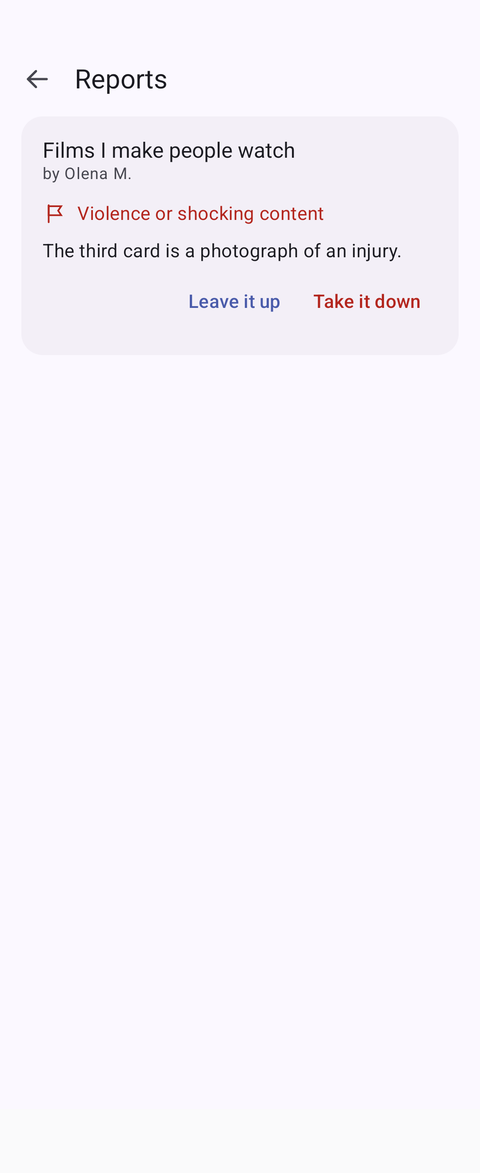
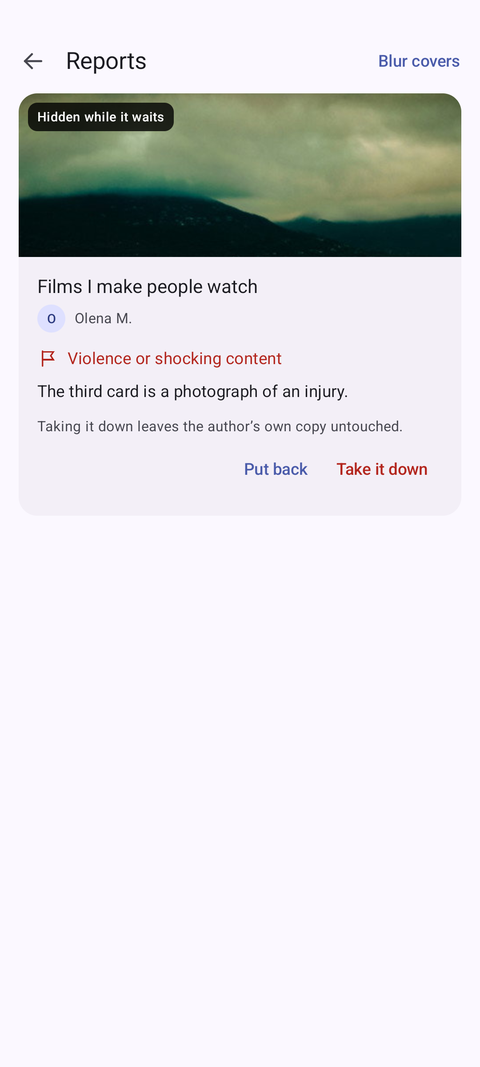
Redraw the README, and stop it claiming work that shipped
The pictures were drawn before the sort, the star, the report queue's cover
and the account that keeps your boards. Redrawn from the same test, plus the
fixture changes those needed: a board that is starred rather than merely
listed under Favourites, and a report that carries the cover the feed showed.

The text was worse than out of date. "What's next" still offered boards that
follow you as a plan, five days after they shipped -- the first thing a
reader would check and the first thing they would find wrong. Written up
now, along with sorting, following, and the sheet that takes a list down and
answers for its author in one decision.

Two things said plainly rather than left to be discovered: ranking somebody
else's board keeps whichever arrangement is on screen, and the AI studio is
built but switched off for the first release.

The take-down sheet is deliberately not pictured. It is a ModalBottomSheet,
so its window is the whole screen and `isDialog()` captures a grey field with
the sheet clipped by the edge. `docs/screenshots.md` says so, and no longer
claims the feed is drawn behind the dialogs -- it has not been for a while.

diff --git a/feature/tier/presentation/src/androidTest/kotlin/com/artiuillab/tieryourlife/feature/tier/presentation/common/ReadmeScreenshotTest.kt b/feature/tier/presentation/src/androidTest/kotlin/com/artiuillab/tieryourlife/feature/tier/presentation/common/ReadmeScreenshotTest.kt
@@ -109,7 +109,11 @@ class ReadmeScreenshotTest {
     private fun Screen(name: String): Unit = when (name) {
         "home" -> TierListsScreenContent(
             state = TierListsUiState.Success(
-                lists = listOf(filmBoard(), ramenBoard(), albumBoard()),
+                lists = listOf(ramenBoard(), albumBoard()),
+                // Starred, and it has to say so: the star on the card is drawn
+                // from the board, not from which list it arrived in.
+                favourites = listOf(filmBoard().copy(favouritedAt = 1)),
+                grouped = true,
                 totalListCount = 3,
                 rankedCount = 2,
             ),
@@ -240,11 +244,13 @@ class ReadmeScreenshotTest {
                         listId = "1",
                         listTitle = "Films I make people watch",
                         authorName = "Olena M.",
+                        authorUid = "u1",
+                        coverImageUrl = Poster.PORTRAIT,
                         reasons = listOf(ReportReason.Violence),
                         notes = listOf("The third card is a photograph of an injury."),
                         reportCount = 1,
                         newestAtMillis = 0,
-                        hidden = false,
+                        hidden = true,
                         reviewed = false,
                     ),
                 ),
@@ -358,6 +364,11 @@ class ReadmeScreenshotTest {
 
         val DIALOGS = setOf("list-actions", "report")
 
+        // The take-down sheet is deliberately absent. It is a ModalBottomSheet,
+        // so its window is the whole screen -- a scrim with the sheet at the
+        // bottom -- and captured through isDialog() it comes out as a grey
+        // field with the sheet clipped by the window edge. A picture that
+        // needs an apology is worse than a paragraph.
         val SCREENS = listOf(
             "home", "home-empty", "board", "settings", "community", "list-actions",
             "report", "community-list", "author", "my-published", "hidden", "moderation",

diff --git a/README.md b/README.md
@@ -60,7 +60,9 @@ and both can be undone from Settings.
 | <img src="docs/screenshots/hidden-light.png" width="240"> | <img src="docs/screenshots/moderation-light.png" width="240"> | <img src="docs/screenshots/my-published-light.png" width="240"> |
 
 Opening someone else's board gives you their cards and their tiers and an empty board, and the
-author is a person you can open rather than a line of text.
+author is a person you can open rather than a line of text. Their arrangement and yours are two
+tabs on the same board — saving keeps whichever one you are looking at, because keeping a list
+the way its author ranked it is a reason to save it rather than a mistake to correct.
 
 | Someone else's board | Their profile |
 |:---:|:---:|
@@ -108,11 +110,25 @@ folding one, which is two different answers in one body — and a tablet turns f
   removed and a one-tap restore. Deleting a tier does not take its trashed items with it.
 - **Publish a board.** Make one public and it joins the community feed under a category, with a
   cover you choose. Deleting your list takes it down; a copy someone already saved stays theirs.
-- **The community.** Browse by category, search across it, open anyone's profile and see
-  everything they have published, and save a copy of any board into your own library.
+- **Sort, filter, and keep one at the top.** Newest or oldest, by category, public or private,
+  and a star that pins a board above the rest. Starring is a time rather than a flag, so several
+  starred boards have an order among themselves without a second thing to set.
+- **The community.** Browse by category, search across it, follow authors and read a feed of
+  only them, open anyone's profile, and save a copy of any board into your own library.
+- **Boards that follow you.** Sign in and your boards are kept in your account and come back on
+  the next phone. Two versions of one board are never merged — the order of the cards *is* the
+  content, so the copy from the account arrives as a second board that says where it came from,
+  and you decide. Changes are noticed by a fingerprint of the board rather than a dirty flag: a
+  flag would have to be set in dozens of places, and the first one forgotten is a board that
+  quietly stopped being kept.
 - **Report or hide.** Long-press a card, or use the overflow inside a list or on a profile.
   Reporting hides it for you at once and files a complaint for a person to read; hiding does the
   first half without the accusation. Both are listed in Settings and can be undone.
+- **One person reads the reports.** The queue leads with the cover the feed showed, because most
+  of the time the complaint *is* the picture and making the reader open the list is making them
+  decide blind. Taking a list down and how long its author waits before publishing again are one
+  sheet, because they are one decision — a week, a month, three, six, or for good, and only the
+  last of those asks twice.
 - **Export.** Any list to a text file, then share it through the system sheet.
 - **Eleven languages** — English, Ukrainian, Russian, Spanish, Portuguese (BR), German, French,
   Polish, Turkish, Japanese, Arabic — switchable inside the app without a restart or a flash of
@@ -152,6 +168,12 @@ screen, the view model and every test are identical either way.
 Generation through the proxy is metered: the studio shows what is left, and running out is its own
 state rather than an error, because "no generations left" and "that didn't work" are answered
 differently. The stub counts nothing and shows no number — its images never leave the phone.
+
+The studio is built and tested but **not offered in the first release** — one flag in
+`core:settings` hides the entrance, and the server refuses the request regardless, because hiding
+a button does not stop one being sent. Every generation costs money and nothing charges for one
+yet. The code, its screens and its tests stay compiled and run so that nothing rots while it
+waits; turning it back on is a one-line change.
 
 ## Architecture
 
@@ -272,8 +294,6 @@ so with it as the only gate one person could spend without limit.
 
 ## What's next
 
-- [ ] **Boards that follow you.** Everything is on one phone today, so a new phone starts empty.
-      The row ids that make syncing possible are already in the schema; the sync itself is not.
 - [ ] Native-speaker review of the Arabic, Japanese and Turkish translations
 - [ ] Ranking history: what moved between tiers and when
 - [ ] Share a board as an image

diff --git a/docs/screenshots.md b/docs/screenshots.md
@@ -33,7 +33,7 @@ python -c "from PIL import Image; import sys; [Image.open(p).convert('RGB').resi
 ```
 
 The picture is the size of whatever drew it, so use a device with an ordinary phone window — the
-committed set came from a 1080×2640 phone at 3x. Run it a second time against a tablet and copy
+committed set came from a 1080×2400 phone at 420dpi. Run it a second time against a tablet and copy
 `board-light`, `community-light` and `settings-dark` into `docs/screenshots/tablet/` for the
 tablet section.
 
@@ -47,8 +47,12 @@ online or the tiles fall back to their titles. That is a worse picture, not a fa
 nothing here asserts, and a screenshot generator that can fail the build would be a bad trade.
 
 **Dialogs are captured from their own window.** `list-actions` and `report` draw in a separate
-window, so they are captured through `isDialog()`; the feed is still drawn behind them, because a
-scrim over nothing is not what anybody sees.
+window, so they are captured through `isDialog()` — which yields the dialog alone, cropped to its
+own bounds, without the feed behind it.
+
+That is also why the take-down sheet is not here. A `ModalBottomSheet`'s window is the whole
+screen, so capturing it the same way gives a grey field with the sheet clipped along the bottom
+edge rather than a picture of a sheet.
 
 ## What is still taken by hand
 
